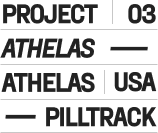
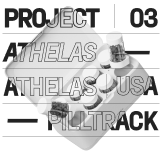
build fix

diff --git a/src/components/Animations/Moreno/Nmp1.jsx b/src/components/Animations/Moreno/Nmp1.jsx
@@ -2,7 +2,7 @@ import { motion } from "framer-motion";
 import React, { useEffect, useState } from "react";
 import { useInView } from "react-intersection-observer";
 import Nmp1Bg from "../../../assets/img/Moreno/Nmp1Bg.png";
-import Nmp1Pic from "../../../assets/img/Moreno/Nmp1Pic.png";
+import Project1 from "../../../assets/img/Moreno/Project1.png";
 // import Nmp1Pic from "../../../assets/img/Moreno/Nmp1Pic.png";
 import Pilltrack2 from "../../../assets/img/Moreno/Pilltrack2.png";
 import Project2 from "../../../assets/img/Moreno/Project2.png";
@@ -38,7 +38,7 @@ const Nmp1 = () => {
         <>
           <img src={Nmp1Bg} alt="Nmp1" className="Nmp1Bg" />
           <motion.img
-            src={Nmp1Pic}
+            src={Project1}
             alt="Nmp1Pic"
             className="Nmp1Pic"
             initial={{
